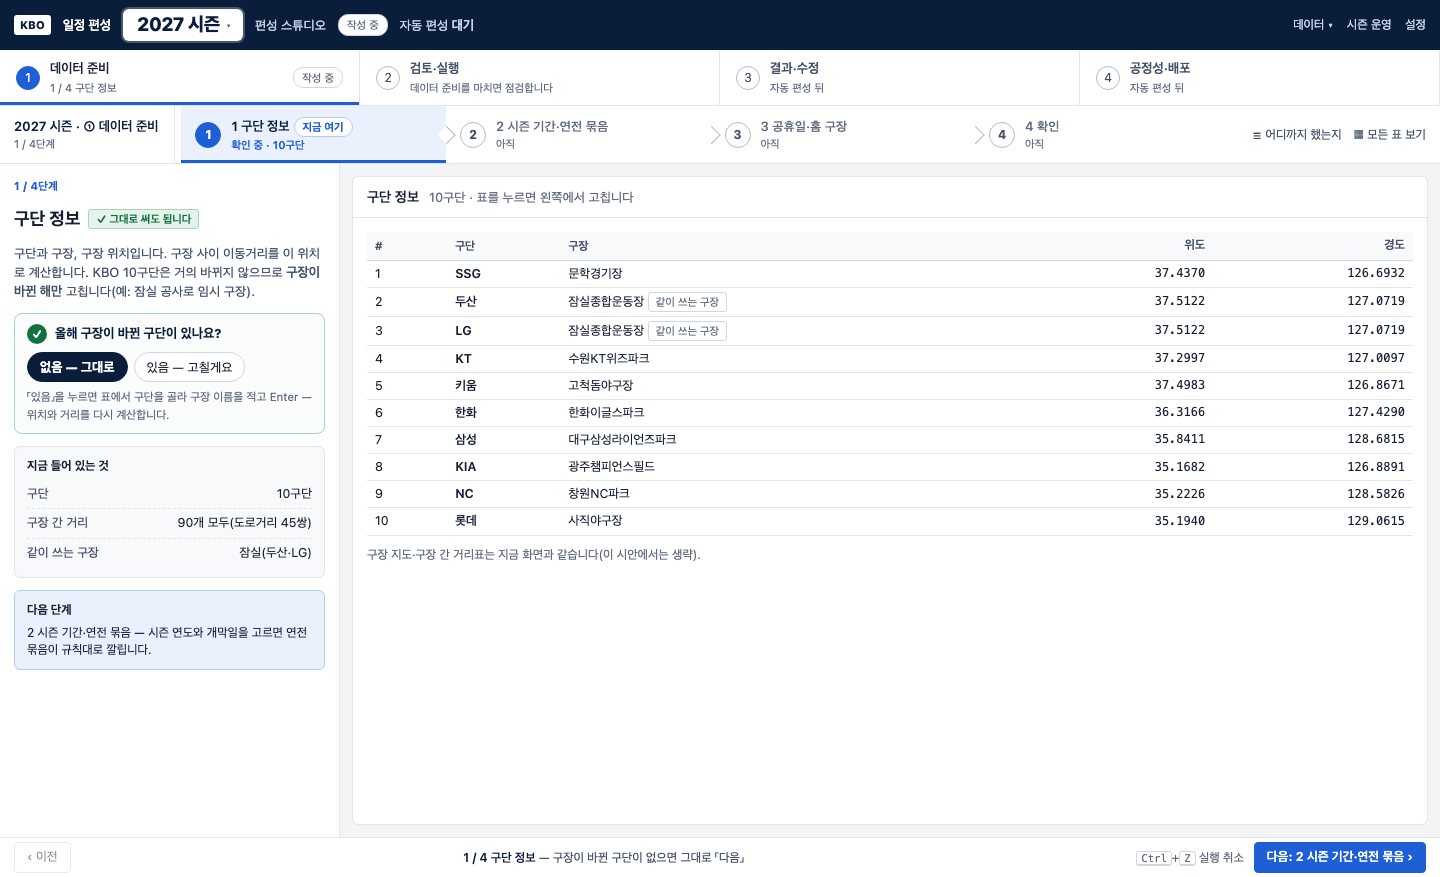
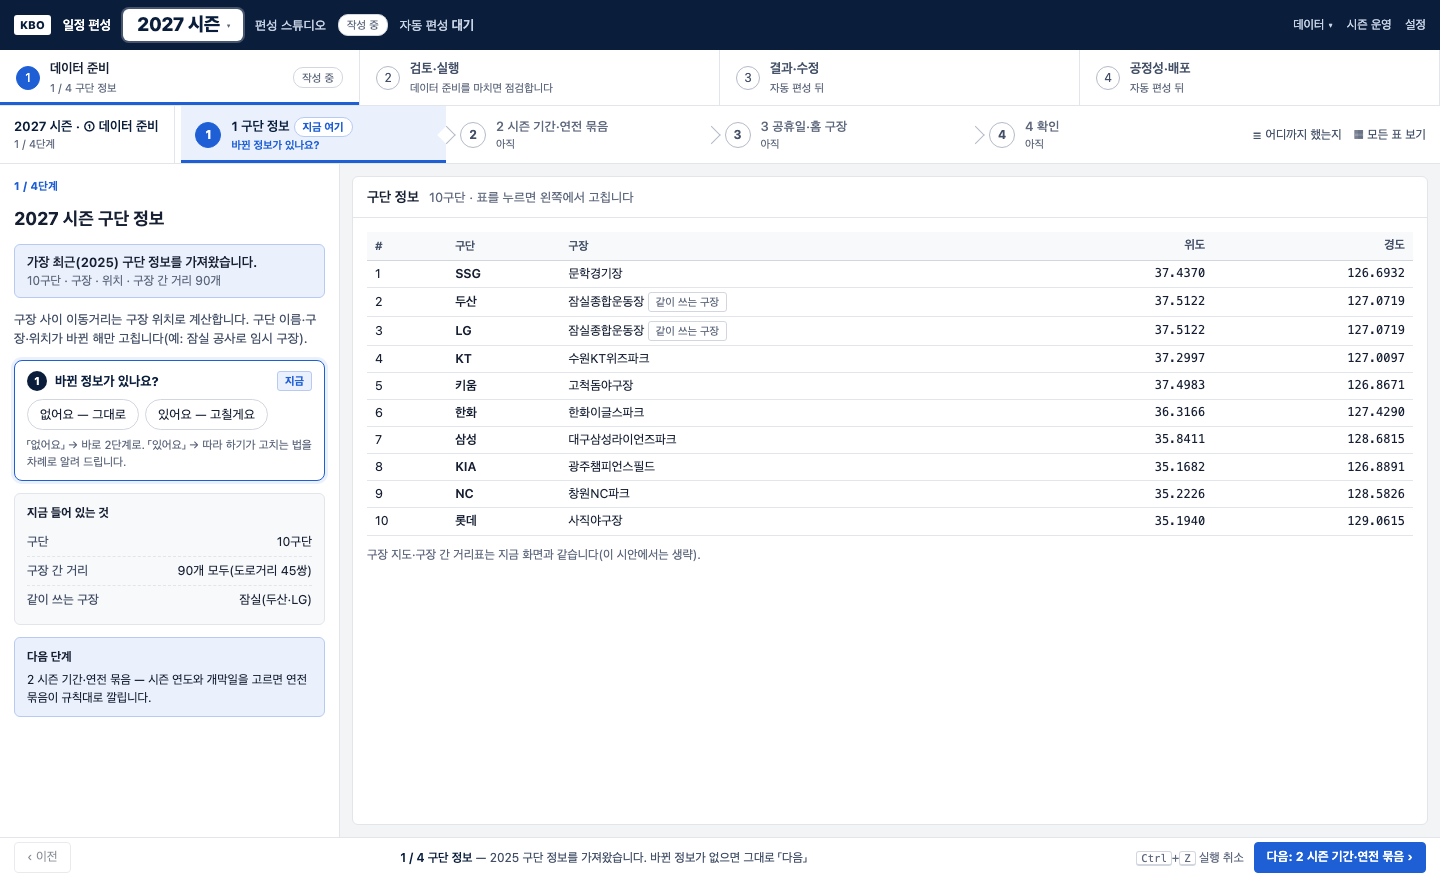
① 단계 흐름 시안: 새 연도는 가장 최근 해의 구단 정보를 가져와 「바뀐 정보가 있나요?」를 묻고, 「있어요」면 따라 하기로 고치는 법(구단 고르기 → 구장 이름 + Enter → 거리 확인)을 알려 준다.

Changed region(s): [[0.0, 0.2155, 0.2188, 0.8005], [0.2812, 0.9544, 0.5625, 0.9852], [0.1562, 0.1539, 0.2188, 0.1847]]

diff --git a/ui-archive/step-flow-concepts/index.html b/ui-archive/step-flow-concepts/index.html
@@ -32,11 +32,13 @@ a{color:#1F5FD6}
 <li><b>한 번 더</b>: ① 안의 단계 띠 앞머리에도 「2027 시즌 · ① 데이터 준비」로 적어, 단계 띠만 봐도 어느 해인지 알 수 있게 했습니다.</li>
 <li><b>고려했다 뺀 자리</b>: 왼쪽 카드 맨 위(①에서만 보이고 ②~④에서 사라짐), 스테퍼 위 큰 제목 줄(세로 공간을 한 줄 더 씀 — 1440×877에서 달력이 줄어듦).</li></ul></div>
 <h2>00 · 맨 먼저 — 시즌 연도 고르기</h2>
-<figure><a href="s00-year.html"><img src="shots/s00-year.png" alt=""></a><figcaption><b>연도 카드 네 장(2025 ~ 오늘 기준 2년 뒤 2028).</b> 카드마다 그 해 데이터가 있는지(있음 · 이 브라우저에 저장됨 · 없음)와 할 일(열기 · 이어서 하기 · 새로 입력). 새 연도는 가장 최근 해의 구단 정보를 가져와 시작합니다. 위쪽 띠의 연도 칸은 고르기 전이라 「시즌 연도를 고르세요」.</figcaption></figure>
+<figure><a href="s00-year.html"><img src="shots/s00-year.png" alt=""></a><figcaption><b>연도 카드 네 장(2025 ~ 오늘 기준 2년 뒤 2028).</b> 카드마다 그 해 데이터가 있는지(있음 · 이 브라우저에 저장됨 · 없음)와 할 일(열기 · 이어서 하기 · 새로 입력). 새 연도는 가장 최근 해의 구단 정보를 가져와 「바뀐 정보가 있나요?」를 묻습니다. 위쪽 띠의 연도 칸은 고르기 전이라 「시즌 연도를 고르세요」.</figcaption></figure>
 <h2>0 · 그 해 데이터가 있을 때 — 어디까지 했는지</h2>
 <figure><a href="s0-resume.html"><img src="shots/s0-resume.png" alt=""></a><figcaption><b>들어오자마자 이 한 장.</b> 단계마다 완료/진행 중/아직과 들어 있는 것 한 줄, 멈춘 단계에 「이어서 하기」. 마지막으로 고친 때와 「이 브라우저에 저장됨」. 새 시즌·예시 데이터도 여기서.</figcaption></figure>
-<h2>1 · 구단 정보</h2>
-<figure><a href="s1-teams.html"><img src="shots/s1-teams.png" alt=""></a><figcaption><b>질문 하나: 「올해 구장이 바뀐 구단이 있나요?」</b> 없으면 그대로 「다음」. 있으면 지금 구단 정보 화면(구장 찾기·지도·거리)에서 고칩니다. 아래 「다음 단계」 상자로 뒤에 무엇이 오는지 미리 보여 줍니다.</figcaption></figure>
+<h2>1 · 구단 정보 — 가장 최근 해의 정보를 가져와서</h2>
+<figure><a href="s1-teams.html"><img src="shots/s1-teams.png" alt=""></a><figcaption><b>새 연도는 가장 최근 해의 구단 정보(구단·구장·위치·거리)를 가져와 시작하고, 「바뀐 정보가 있나요?」 하나만 묻습니다.</b> 「없어요」 → 바로 2단계. 「있어요」 → 아래 따라 하기.</figcaption></figure>
+<h2>1 · 구단 정보 — 「있어요」를 누른 뒤 (따라 하기 2 / 3)</h2>
+<figure><a href="s1-teams-tour.html"><img src="shots/s1-teams-tour.png" alt=""></a><figcaption><b>고치는 법을 차례로 알려 줍니다.</b> ① 바뀐 구단 고르기(단추나 표) → ② 구장 칸에 새 이름을 적고 Enter(위치를 찾아 채움) → ③ 다른 구장까지 거리 확인(도로거리 · 직접 고치기). 바뀐 구단이 여럿이면 같은 방법으로 하나씩. 구단 이름이 바뀌었으면 구단명 칸에서.</figcaption></figure>
 <h2>2 · 시즌 기간·연전 묶음 — 비어 있을 때 (따라 하기 1 / 3)</h2>
 <figure><a href="s2-empty.html"><img src="shots/s2-empty.png" alt=""></a><figcaption><b>2027 새 시즌.</b> 처음에 고른 연도의 주말·공휴일이 달력에 먼저 보이고, 개막일은 토요일 세 개 중 고르기(추천 표시). 나머지는 「자동」으로 접혀 있습니다. 따라 하기 카드가 지금 할 일 하나만 가리킵니다. 「다음」은 개막일을 고르기 전까지 흐립니다.</figcaption></figure>
 <h2>2 · 시즌 기간·연전 묶음 — 개막일을 고른 뒤 (따라 하기 2 / 3)</h2>
@@ -47,7 +49,6 @@ a{color:#1F5FD6}
 <figure><a href="s4-check.html"><img src="shots/s4-check.png" alt=""></a><figcaption><b>한 장에 모두.</b> 단계별 요약과 「고치기」(그 단계로), 시리즈는 규칙대로 자동으로 만들었다는 한 줄. 데이터가 이미 있는 사람도 여기서 하나씩 눌러 확인합니다.</figcaption></figure>
 
 <div class="box q"><b>여쭤볼 것</b><ul>
-<li>새 연도는 가장 최근 해의 구단 정보를 가져와 시작하면 될까요(시안)? 아니면 비워 두고 처음부터?</li>
 <li>단계 띠(① 아래 4칸)가 지금 어디인지 충분히 보이나요? 아니면 왼쪽 세로 목록이 나을까요?</li>
 <li>2단계에서 개막일을 고르면 바로 묶음을 깔까요(시안), 아니면 「규칙대로 채우기」를 한 번 누르게 할까요?</li>
 <li>따라 하기는 단계마다 처음 한 번씩(시안: 2단계 1·2, 3단계 3)이면 될까요?</li>

diff --git a/ui-archive/step-flow-concepts/s1-teams.html b/ui-archive/step-flow-concepts/s1-teams.html
@@ -1,10 +1,11 @@
 <!doctype html><html lang="ko"><head><meta charset="utf-8"><title>1 · 구단 정보</title><link rel="stylesheet" href="../input-flow-concepts/concept.css"><link rel="stylesheet" href="flow.css"></head><body><div class="body" style="position:relative"></div><script src="../input-flow-concepts/concept.js"></script><script src="flow.js"></script><script>
-Flow.chrome({ at: 1, year: 2027, sub: { 1: '확인 중 · 10구단', 2: '아직', 3: '아직', 4: '아직' }, hint: '<b>1 / 4 구단 정보</b> — 구장이 바뀐 구단이 없으면 그대로 「다음」', next: '다음: 2 시즌 기간·연전 묶음' });
+Flow.chrome({ at: 1, year: 2027, sub: { 1: '바뀐 정보가 있나요?', 2: '아직', 3: '아직', 4: '아직' }, hint: '<b>1 / 4 구단 정보</b> — 2025 구단 정보를 가져왔습니다. 바뀐 정보가 없으면 그대로 「다음」', next: '다음: 2 시즌 기간·연전 묶음' });
 const T = Concept.TEAMS, ll = { SSG: [37.4370, 126.6932], 두산: [37.5122, 127.0719], LG: [37.5122, 127.0719], KT: [37.2997, 127.0097], 키움: [37.4983, 126.8671], 한화: [36.3166, 127.4290], 삼성: [35.8411, 128.6815], KIA: [35.1682, 126.8891], NC: [35.2226, 128.5826], 롯데: [35.1940, 129.0615] };
 document.querySelector('.body').innerHTML =
-  '<aside class="card"><div class="kick">1 / 4단계</div><h2>구단 정보 <span class="stat ok">✓ 그대로 써도 됩니다</span></h2>' +
-  '<p>구단과 구장, 구장 위치입니다. 구장 사이 이동거리를 이 위치로 계산합니다. KBO 10구단은 거의 바뀌지 않으므로 <b>구장이 바뀐 해만</b> 고칩니다(예: 잠실 공사로 임시 구장).</p>' +
-  '<div class="ask ok"><div class="q"><span class="no">✓</span>올해 구장이 바뀐 구단이 있나요?</div><div class="a chips"><span class="chip on">없음 — 그대로</span><span class="chip">있음 — 고칠게요</span></div><div class="why">「있음」을 누르면 표에서 구단을 골라 구장 이름을 적고 Enter — 위치와 거리를 다시 계산합니다.</div></div>' +
+  '<aside class="card"><div class="kick">1 / 4단계</div><h2>2027 시즌 구단 정보</h2>' +
+  '<div class="box blue" style="padding:8px 12px"><b>가장 최근(2025) 구단 정보를 가져왔습니다.</b><div class="small muted">10구단 · 구장 · 위치 · 구장 간 거리 90개</div></div>' +
+  '<p>구장 사이 이동거리는 구장 위치로 계산합니다. 구단 이름·구장·위치가 바뀐 해만 고칩니다(예: 잠실 공사로 임시 구장).</p>' +
+  '<div class="ask now"><div class="q"><span class="no">1</span>바뀐 정보가 있나요? <span class="stat blue">지금</span></div><div class="a chips"><span class="chip">없어요 — 그대로</span><span class="chip">있어요 — 고칠게요</span></div><div class="why">「없어요」 → 바로 2단계로. 「있어요」 → 따라 하기가 고치는 법을 차례로 알려 드립니다.</div></div>' +
   '<div class="box"><h4>지금 들어 있는 것</h4><div class="line"><span class="k">구단</span><span class="v">10구단</span></div><div class="line"><span class="k">구장 간 거리</span><span class="v">90개 모두(도로거리 45쌍)</span></div><div class="line"><span class="k">같이 쓰는 구장</span><span class="v">잠실(두산·LG)</span></div></div>' +
   '<div class="box blue"><h4>다음 단계</h4><div class="small">2 시즌 기간·연전 묶음 — 시즌 연도와 개막일을 고르면 연전 묶음이 규칙대로 깔립니다.</div></div></aside>' +
   '<main class="main"><div class="head"><b>구단 정보</b><span class="desc">10구단 · 표를 누르면 왼쪽에서 고칩니다</span></div><div class="body2"><table class="t"><tr><th>#</th><th>구단</th><th>구장</th><th class="num">위도</th><th class="num">경도</th></tr>' +

diff --git a/ui-archive/step-flow-concepts/s1-teams-tour.html b/ui-archive/step-flow-concepts/s1-teams-tour.html
@@ -1,0 +1,20 @@
+<!doctype html><html lang="ko"><head><meta charset="utf-8"><title>1 · 구단 정보 — 「있어요」를 누른 뒤(따라 하기)</title><link rel="stylesheet" href="../input-flow-concepts/concept.css"><link rel="stylesheet" href="flow.css"></head><body><div class="body" style="position:relative"></div><script src="../input-flow-concepts/concept.js"></script><script src="flow.js"></script><script>
+Flow.chrome({ at: 1, year: 2027, sub: { 1: '고치는 중 · 따라 하기 2 / 3', 2: '아직', 3: '아직', 4: '아직' }, hint: '<b>1 / 4 구단 정보</b> — 따라 하기를 따라 바뀐 구단을 고칩니다', next: '다음: 2 시즌 기간·연전 묶음' });
+const T = Concept.TEAMS, ll = { SSG: [37.4370, 126.6932], 두산: [37.5122, 127.0719], LG: [37.5122, 127.0719], KT: [37.2997, 127.0097], 키움: [37.4983, 126.8671], 한화: [36.3166, 127.4290], 삼성: [35.8411, 128.6815], KIA: [35.1682, 126.8891], NC: [35.2226, 128.5826], 롯데: [35.1940, 129.0615] };
+const d = { SSG: 41.2, 키움: 25.8, KT: 39.6, 한화: 163.5, 삼성: 296.4, KIA: 301.2, NC: 336.0, 롯데: 393.1, 두산: 0 };
+document.querySelector('.body').innerHTML =
+  '<aside class="card"><div class="kick">1 / 4단계</div><h2>2027 시즌 구단 정보</h2>' +
+  '<div class="ask ok"><div class="q"><span class="no">✓</span>바뀐 정보가 있나요?</div><div class="a chips"><span class="chip">없어요 — 그대로</span><span class="chip on">있어요 — 고칠게요</span></div></div>' +
+  '<div class="box"><h4>고칠 구단 <span class="r xs muted">표나 단추에서 고릅니다</span></h4><div style="display:flex;flex-wrap:wrap;gap:4px">' + T.map((t) => '<span class="btn sm"' + (t.name === 'LG' ? ' style="background:var(--blue);color:#fff;border-color:var(--blue)"' : '') + '>' + t.name + '</span>').join('') + '</div></div>' +
+  '<div class="box blue"><h4>고치기 · LG</h4>' +
+  '<div class="field" style="margin-bottom:6px">구단명<span class="in">LG</span></div>' +
+  '<div class="field">구장 <span class="xs muted">— 새 이름을 적고 Enter = 위치 찾기</span><span class="in focus">고척스카이돔(임시)│</span></div>' +
+  '<div class="line" style="margin-top:6px"><span class="k">위도·경도</span><span class="v mono">37.5122, 127.0719 <span class="auto">Enter 뒤 자동</span></span></div>' +
+  '<div class="xs muted" style="margin-top:4px">위치가 바뀌면 다른 구장까지 거리를 다시 계산합니다(도로거리 · 직접 고칠 수도 있음).</div></div>' +
+  '</aside>' +
+  '<main class="main"><div class="head"><b>구단 정보</b><span class="desc">10구단 · 고친 줄은 파랑</span></div><div class="body2"><table class="t"><tr><th>#</th><th>구단</th><th>구장</th><th class="num">위도</th><th class="num">경도</th></tr>' +
+  T.map((t, i) => '<tr' + (t.name === 'LG' ? ' class="sel"' : '') + '><td>' + (i + 1) + '</td><td><b>' + t.name + '</b></td><td>' + t.stadium + (t.name === 'LG' ? ' <span class="stat blue">고치는 중</span>' : '') + '</td><td class="num">' + ll[t.name][0].toFixed(4) + '</td><td class="num">' + ll[t.name][1].toFixed(4) + '</td></tr>').join('') +
+  '</table><div class="small muted" style="margin-top:10px">구장 지도·구장 간 거리표는 지금 화면과 같습니다(이 시안에서는 생략).</div></div></main>' +
+  Flow.ring(20, 372, 316, 80) +
+  Flow.coach({ n: 2, of: 3, title: '새 구장 이름을 적고 Enter', text: '① 바뀐 구단(LG)을 골랐습니다. ② 구장 칸에 새 구장 이름을 적고 Enter를 누르면 위치(위도·경도)를 찾아 채웁니다. ③ 다음 카드에서 거리를 확인합니다. 바뀐 구단이 여럿이면 하나씩 같은 방법으로.', x: 350, y: 356, side: 'l' });
+</script></body></html>

diff --git a/ui-archive/step-flow-concepts/s00-year.html b/ui-archive/step-flow-concepts/s00-year.html
@@ -7,9 +7,9 @@ const Y = [];
 for (let y = 2025; y <= last; y++) Y.push(y);
 const info = {
   2025: card(2025, 'has', '<span class="stat ok">✓ 데이터 있음</span><br>2025 실제 일정(기본 제공) · 4단계 모두 완료. 단계를 하나씩 눌러 확인합니다.', '<span class="btn">열기</span>'),
-  2026: card(2026, 'new', '<span class="stat todo">데이터 없음</span><br>새로 입력합니다. 구단 정보는 2025 것을 가져와 「바뀐 구장이 있나요?」만 묻습니다.', '<span class="btn">새로 입력</span>'),
+  2026: card(2026, 'new', '<span class="stat todo">데이터 없음</span><br>새로 입력합니다. 구단 정보는 가장 최근(2025) 것을 가져와 「바뀐 정보가 있나요?」만 묻습니다.', '<span class="btn">새로 입력</span>'),
   2027: card(2027, 'cont', '<span class="stat blue">이 브라우저에 저장됨</span><br>3단계 「공휴일·홈 구장」에서 멈춤 · 마지막으로 고친 때 10/27(화) 오후 2:32', '<span class="btn pri">이어서 하기 ›</span>'),
-  2028: card(2028, 'new', '<span class="stat todo">데이터 없음</span><br>새로 입력합니다. 구단 정보는 가장 최근(2027) 것을 가져옵니다.', '<span class="btn">새로 입력</span>')
+  2028: card(2028, 'new', '<span class="stat todo">데이터 없음</span><br>새로 입력합니다. 구단 정보는 가장 최근(2027) 것을 가져와 「바뀐 정보가 있나요?」를 묻습니다.', '<span class="btn">새로 입력</span>')
 };
 document.querySelector('.body').outerHTML = '<div class="resume"><div class="rcard" style="width:1000px">' +
   '<div class="kick">① 데이터 준비 · 맨 먼저</div><h2>몇 년 시즌을 편성할까요?</h2>' +

diff --git a/ui-archive/step-flow-concepts/flow.css b/ui-archive/step-flow-concepts/flow.css
@@ -39,7 +39,7 @@
 .chip.rec { border-color: var(--blue); color: var(--blue); font-weight: 700; }
 .chip.on { background: var(--navy); border-color: var(--navy); color: #fff; font-weight: 700; }
 .chip small { font-weight: 400; font-size: 11px; opacity: .8; margin-left: 4px; }
-.sel { display: inline-flex; align-items: center; gap: 10px; border: 1px solid var(--line-3); border-radius: 6px; padding: 6px 12px; font-size: 16px; font-weight: 700; background: #fff; }
+.ysel { display: inline-flex; align-items: center; gap: 10px; border: 1px solid var(--line-3); border-radius: 6px; padding: 6px 12px; font-size: 16px; font-weight: 700; background: #fff; }
 .auto { font-size: 10.5px; color: var(--text-3); border: 1px solid var(--line); background: var(--surface-2); border-radius: 3px; padding: 0 5px; font-weight: 400; }
 .fold { border: 1px dashed var(--line-2); border-radius: 6px; padding: 7px 10px; font-size: 12px; color: var(--text-2); line-height: 1.55; }
 .fold b { color: var(--text); }

diff --git a/ui-archive/README.md b/ui-archive/README.md
@@ -23,6 +23,6 @@
 | `opus-layout-design/` | (추적하지 않던 폴더) | 레이아웃 와이어프레임 A~E |
 | `opus-layout-design-v2/` | (추적하지 않던 폴더) | 레이아웃 시안 01~07. 06-replay는 이동 경로 재생의 참고 자료다. |
 | `input-flow-concepts/` | `claude/input-flow-ux-d531b4` | ① 데이터 준비 **입력 흐름** 컨셉 시안(2026-10-26). `index.html` 비교 페이지: ★추천안 R(사용자 제안 반영 — 입력은 모두 시즌 달력 한 화면: 끌어서 연전 묶음·눌러서 홈 구장·공휴일 가중치 표·엑셀 왕복·따라 하기) → 지금 9단계의 문제 → 이전 추천안 A(5단계, 띠에 역할 표시 · 특별한 날 달력 하나 · 연전 기간 규칙 + 달력에서 고치기 · 시리즈 규칙 확인만) + 대안 B 달력 한 장 · C 질문형 · D 엑셀 중심. 2025 설정으로 그린 정적 HTML, `shots/` 1440×877, `shot.sh`로 다시 찍는다. |
-| `step-flow-concepts/` | `claude/season-calendar-960478` | ① 데이터 준비 **단계 흐름** 시안(2026-10-29, 사용자 결정 반영): 맨 먼저 시즌 연도(상단 띠에 크게, 오늘 기준 2년 뒤까지) → ① 안 4단계(1 구단 정보 → 2 시즌 기간·연전 묶음 → 3 공휴일·홈 구장 → 4 확인), 늘 보이는 단계 띠(「지금 여기」·단계마다 상태 한 줄), 다시 왔을 때 「어디까지 했는지」 한 장, 비어 있을 때 따라 하기, 2단계는 연도·개막일만 고르면 나머지 자동. `index.html` 비교 페이지, 화면 7장 `shots/` 1440×877, `shot.sh`. 공통 모양은 `../input-flow-concepts/concept.css`·`concept.js`를 쓴다. |
+| `step-flow-concepts/` | `claude/season-calendar-960478` | ① 데이터 준비 **단계 흐름** 시안(2026-10-29, 사용자 결정 반영): 맨 먼저 시즌 연도(상단 띠에 크게, 오늘 기준 2년 뒤까지) → ① 안 4단계(1 구단 정보 → 2 시즌 기간·연전 묶음 → 3 공휴일·홈 구장 → 4 확인), 늘 보이는 단계 띠(「지금 여기」·단계마다 상태 한 줄), 다시 왔을 때 「어디까지 했는지」 한 장, 비어 있을 때 따라 하기, 2단계는 연도·개막일만 고르면 나머지 자동. `index.html` 비교 페이지, 화면 8장 `shots/` 1440×877, `shot.sh`. 공통 모양은 `../input-flow-concepts/concept.css`·`concept.js`를 쓴다. |
 
 경위와 결정 사항은 `../KBO_WIZARD_UI_REQUIREMENTS.md` §12~§13에 있다.
